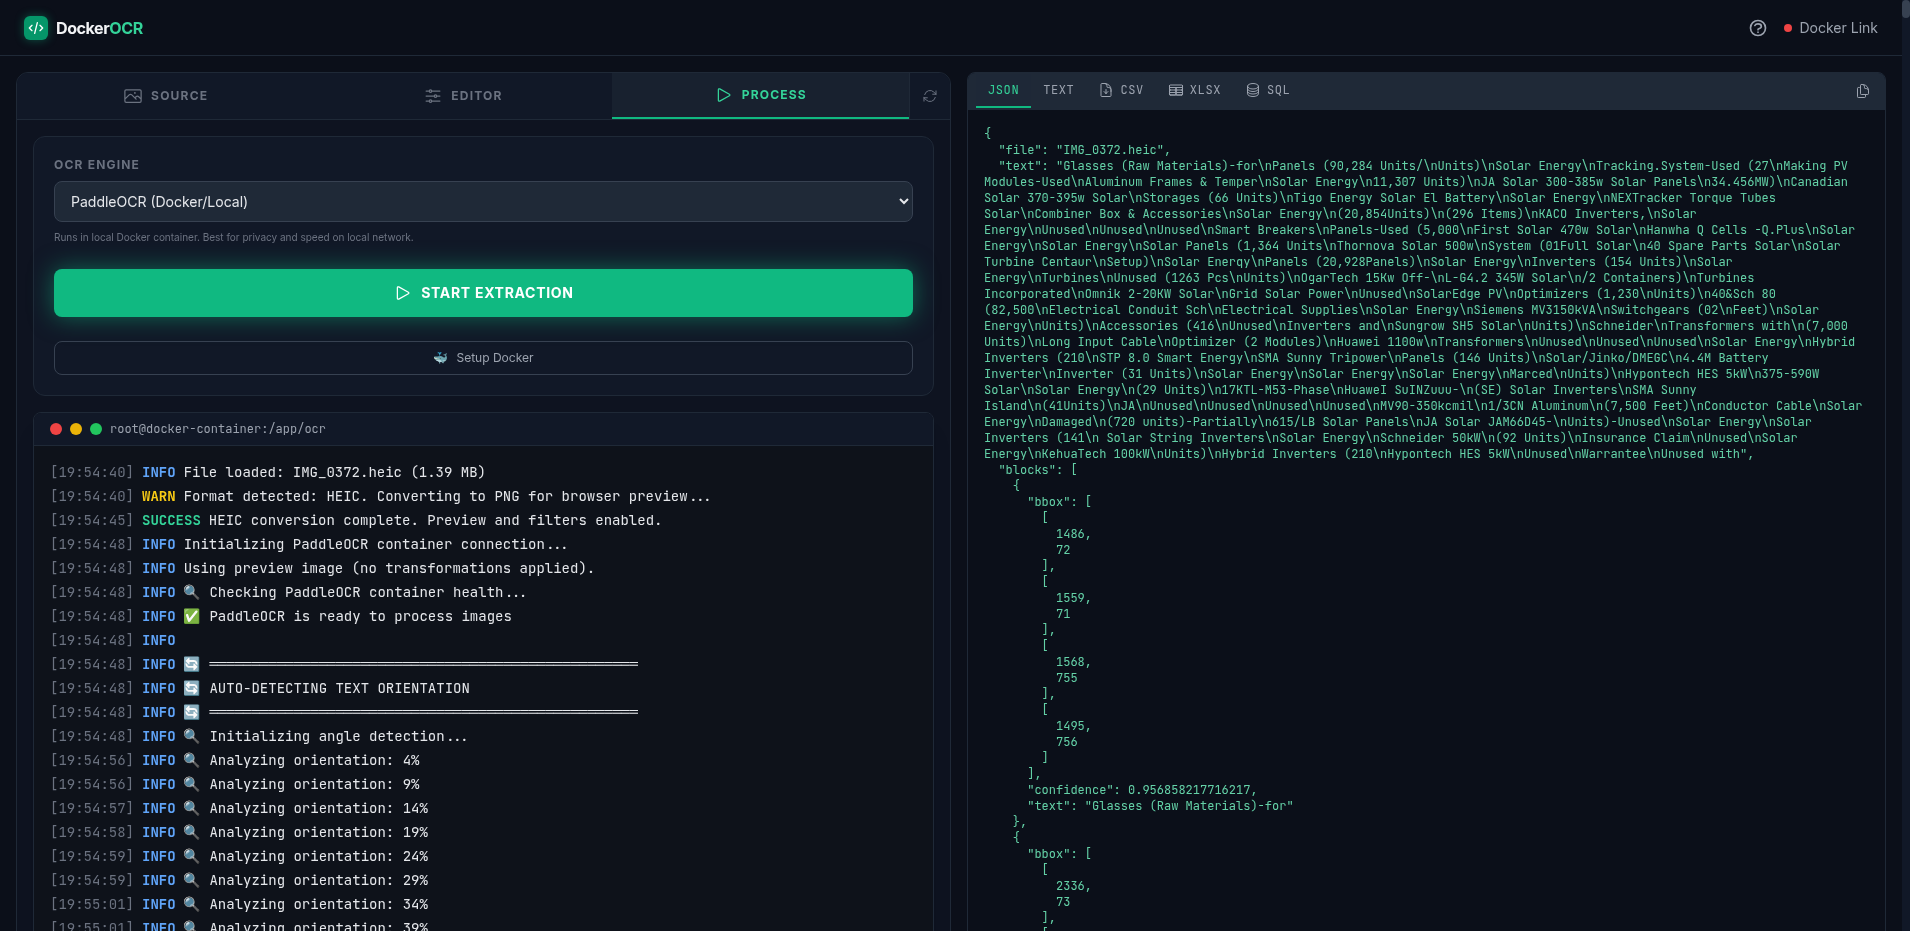
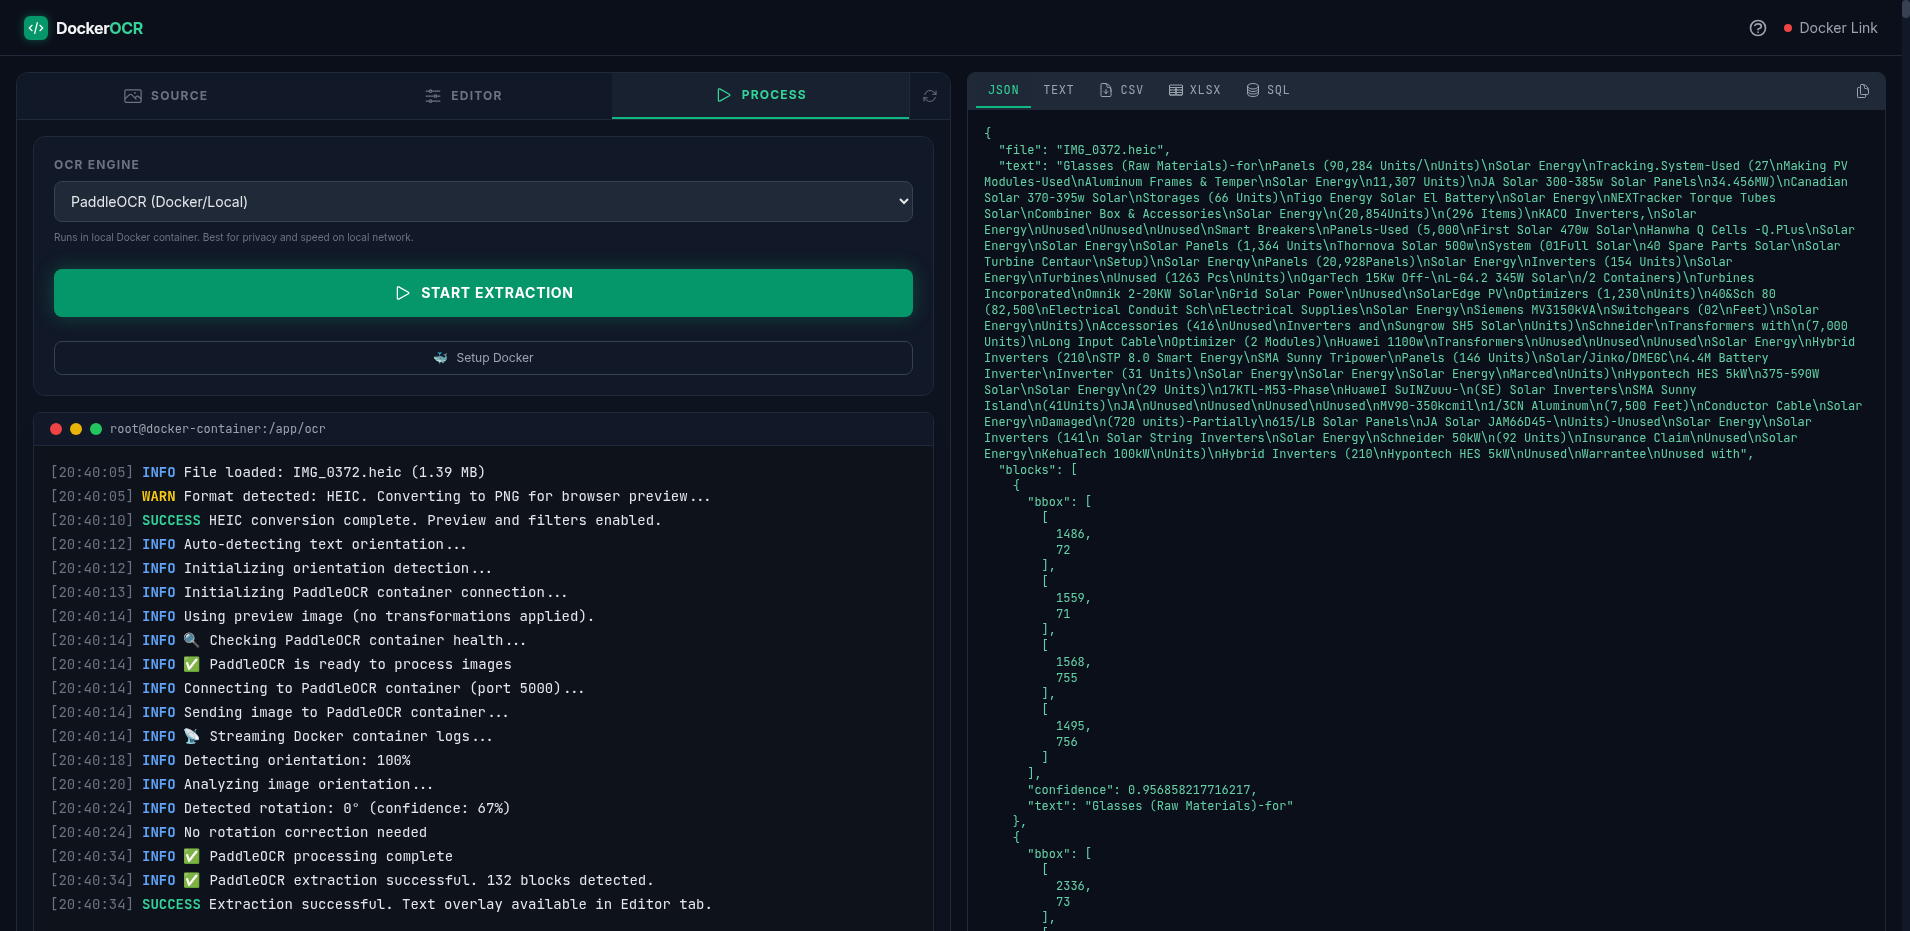
fix: Tesseract OSD mode + CSS viewport constraints
CRITICAL FIXES:

1. TESSERACT OSD MODE FIX:
   - Error: 'worker.detect requires Legacy model, which was not loaded'
   - Root cause: OSD mode with detect() requires legacy trained data
   - Solution: Use recognize() with PSM.OSD_ONLY instead
   - Parse OSD output text to extract rotation angle and confidence
   - Now properly detects 0°, 90°, 180°, 270° rotations

2. CSS VIEWPORT OVERFLOW FIX (AGAIN):
   - Content was exceeding browser margins
   - Root cause: Flex children with w-full can overflow parent
   - Solution:
     * Added w-screen to root div for explicit width constraint
     * Changed max-w-[100vw] to max-w-full on main element
     * Added min-w-0 to both flex columns (prevents flex overflow)
     * Removed max-w-full, added min-w-0 (proper flex constraint)

   Key insight: In flexbox, min-w-0 is needed to allow flex items to shrink
   below their content size. Without it, content can overflow.

TECHNICAL DETAILS:
- Tesseract PSM.OSD_ONLY mode only does orientation detection (fast)
- OSD output format: 'Rotate: 90\nOrientation confidence: 12.34'
- Regex parsing extracts angle and confidence from text
- Confidence normalized from 0-15 scale to 0-1 scale

Result: Auto-rotation now works AND viewport stays constrained!

Changed region(s): [[0.0309, 0.5607, 0.3707, 1.0], [0.0309, 0.2803, 0.4942, 0.3426], [0.0309, 0.4984, 0.0618, 0.9033]]

diff --git a/services/angleDetectionService.ts b/services/angleDetectionService.ts
@@ -1,4 +1,4 @@
-import { createWorker } from 'tesseract.js';
+import { createWorker, PSM } from 'tesseract.js';
 
 export interface AngleDetectionResult {
   angle: number;
@@ -21,9 +21,9 @@ export async function detectRotationAngle(
     // Track last progress to avoid duplicate logs
     let lastProgress = -1;
 
-    // Create worker with OSD (Orientation and Script Detection) mode
-    // This is MUCH faster than full OCR - only detects orientation
-    const worker = await createWorker('osd', 1, {
+    // Create worker with English language model
+    // We'll use recognize() with PSM 0 (OSD only) for orientation detection
+    const worker = await createWorker('eng', 1, {
       logger: (m) => {
         if (m.status === 'recognizing text' || m.status === 'loading tesseract core') {
           const currentProgress = Math.round(m.progress * 100);
@@ -36,18 +36,35 @@ export async function detectRotationAngle(
       }
     });
 
+    // Set PSM (Page Segmentation Mode) to OSD_ONLY (Orientation and Script Detection)
+    // This is faster than full OCR as it only detects orientation
+    await worker.setParameters({
+      tessedit_pageseg_mode: PSM.OSD_ONLY,
+    });
+
     onProgress?.(50, 'Analyzing image orientation...');
 
-    // Use detect() for OSD mode - much faster than recognize()
-    const { data } = await worker.detect(imageData);
+    // Use recognize() but with PSM OSD_ONLY it will only do orientation detection
+    const { data } = await worker.recognize(imageData);
 
     await worker.terminate();
 
-    // Tesseract OSD provides orientation information
-    // orientation_degrees: 0, 90, 180, or 270
-    // orientation_confidence: 0-100
-    const detectedAngle = (data as any).orientation_degrees || 0;
-    const confidence = ((data as any).orientation_confidence || 0) / 100; // Convert to 0-1 range
+    // Parse the OSD (Orientation and Script Detection) output
+    // The data.osd contains text like "Orientation: 0\nRotate: 90\n..."
+    const osdText = data.osd || '';
+
+    // Extract rotation angle from OSD output
+    // Format: "Rotate: 90" means image needs 90° rotation to be upright
+    const rotateMatch = osdText.match(/Rotate:\s*(\d+)/);
+    const detectedAngle = rotateMatch ? parseInt(rotateMatch[1], 10) : 0;
+
+    // Extract orientation confidence if available
+    // Format: "Orientation confidence: 12.34"
+    const confMatch = osdText.match(/Orientation confidence:\s*([\d.]+)/);
+    const rawConfidence = confMatch ? parseFloat(confMatch[1]) : 10;
+
+    // Tesseract OSD confidence is typically 0-15 scale, normalize to 0-1
+    const confidence = Math.min(rawConfidence / 15, 1.0);
 
     onProgress?.(100, `Detected rotation: ${detectedAngle}° (confidence: ${(confidence * 100).toFixed(0)}%)`);
 

diff --git a/App.tsx b/App.tsx
@@ -481,7 +481,7 @@ const App: React.FC = () => {
   useKeyboardShortcuts(shortcuts, shortcutsEnabled);
 
   return (
-    <div className="min-h-screen flex flex-col font-sans text-gray-300 selection:bg-emerald-500/30 overflow-x-hidden">
+    <div className="min-h-screen w-screen flex flex-col font-sans text-gray-300 selection:bg-emerald-500/30 overflow-x-hidden">
       {/* Header */}
       <header className="h-14 border-b border-gray-800 bg-gray-950 flex items-center justify-between px-4 lg:px-6 sticky top-0 z-10">
         <div className="flex items-center space-x-2">
@@ -511,10 +511,10 @@ const App: React.FC = () => {
       </header>
 
       {/* Main Content */}
-      <main className="flex-1 flex flex-col lg:flex-row p-2 lg:p-4 gap-4 w-full max-w-[100vw]">
-        
+      <main className="flex-1 flex flex-col lg:flex-row p-2 lg:p-4 gap-4 w-full max-w-full">
+
         {/* Left Column: Tabbed Interface */}
-        <div className="w-full lg:w-1/2 flex flex-col bg-gray-900/50 rounded-xl border border-gray-800 overflow-hidden shrink-0 min-h-[600px] lg:min-h-0 max-w-full">
+        <div className="w-full lg:w-1/2 flex flex-col bg-gray-900/50 rounded-xl border border-gray-800 overflow-hidden min-w-0 min-h-[600px] lg:min-h-0">
           
           {/* Tab Navigation */}
           <div className="flex border-b border-gray-800 bg-gray-900">
@@ -758,7 +758,7 @@ const App: React.FC = () => {
         </div>
 
         {/* Right Column: Results */}
-        <div className="w-full lg:w-1/2 flex flex-col min-h-[500px] lg:min-h-0 max-w-full overflow-hidden">
+        <div className="w-full lg:w-1/2 flex flex-col min-h-[500px] lg:min-h-0 min-w-0 overflow-hidden">
           <ResultsView data={result} />
         </div>
 

diff --git a/test_prove_rotation_issue.py b/test_prove_rotation_issue.py
@@ -43,8 +43,8 @@ def main():
     
     try:
         # Open app
-        print("\n🌐 Opening http://localhost:3001...")
-        driver.get("http://localhost:3001")
+        print("\n🌐 Opening http://localhost:3000...")
+        driver.get("http://localhost:3000")
         WebDriverWait(driver, 10).until(
             EC.presence_of_element_located((By.TAG_NAME, "body"))
         )
